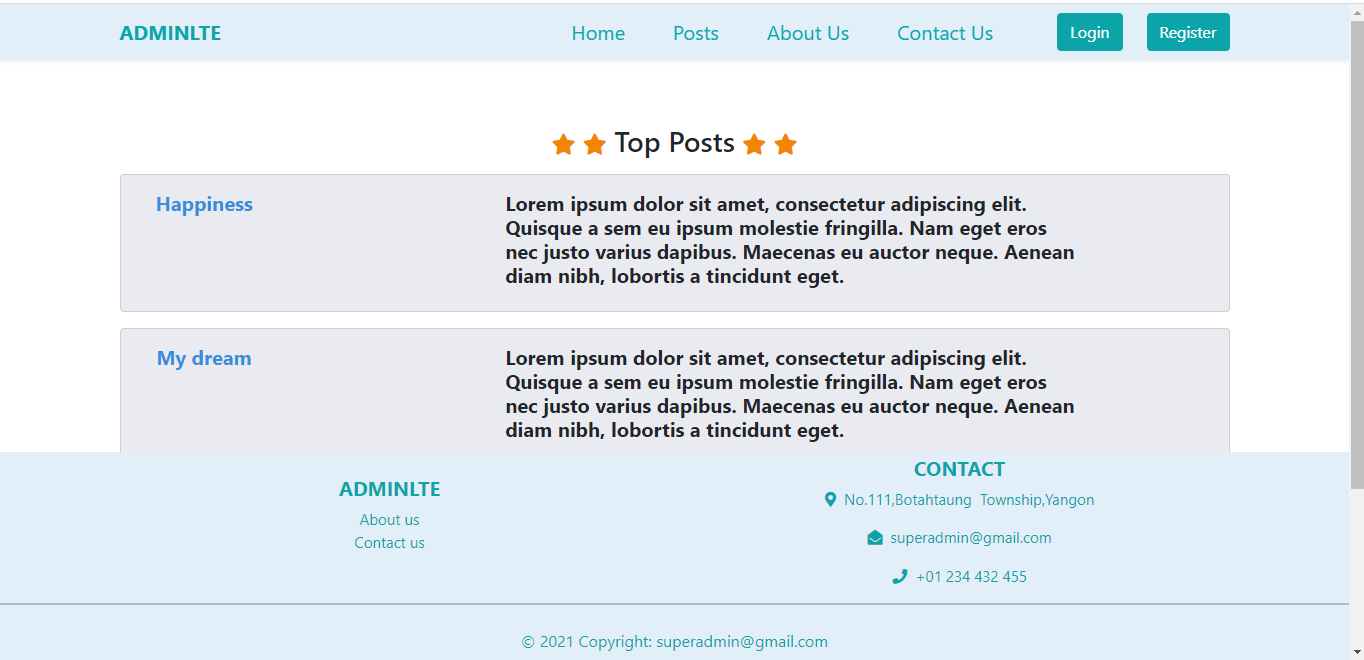
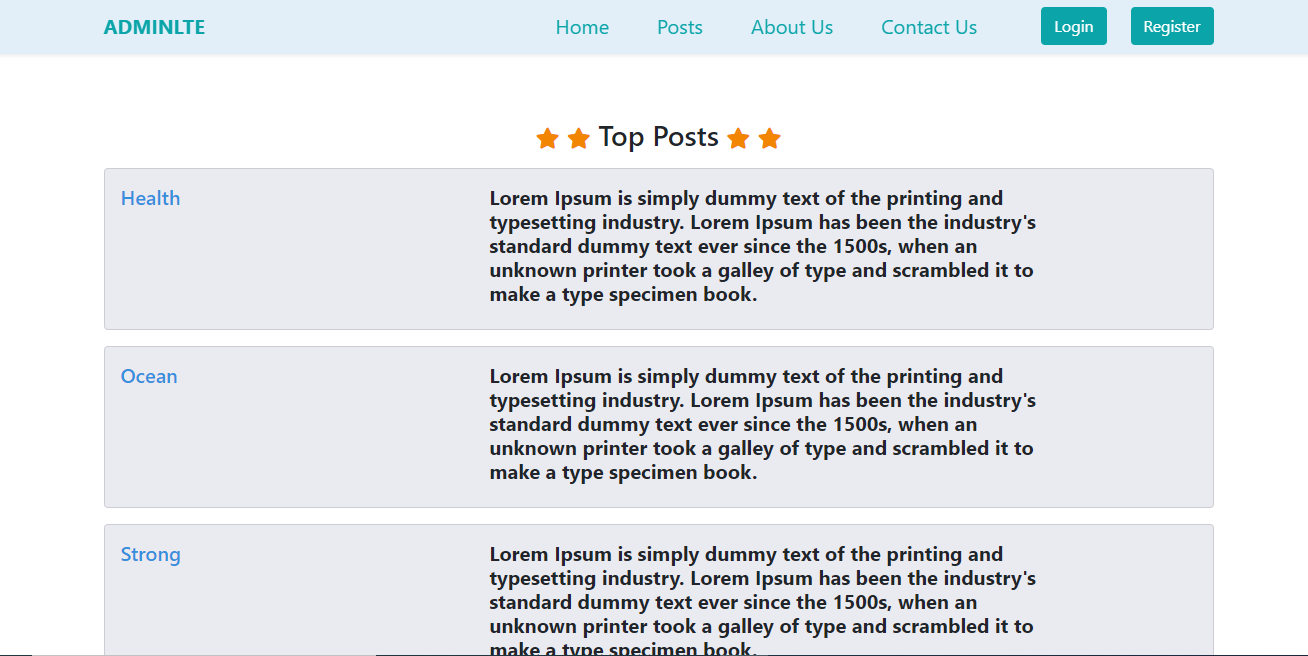
update md

diff --git a/resources/views/admin/admin-dashboard.blade.php b/resources/views/admin/admin-dashboard.blade.php
@@ -1,6 +1,6 @@
 @extends('admin.admin-layout.master')
 @section('admin-content')
-    <div class="container mt-5 mb-5">
+    <div class="container mb-5">
         <div class="row justify-content-center">
             <div class="col-md-12">
                 <div class="card">

diff --git a/README.md b/README.md
@@ -53,7 +53,7 @@ Password : 12345678
 ```
 
 ## Sample Post data
-- [csv file for posts data ](https://github.com/scm-developers/resources/raw/main/docs/How%20to%20environment%20setup%20for%20unit%20testing%20in%20Laravel.docx)
+- [csv file for posts data ](https://github.com/KyiMyatNoeSoe7/AdminLTE/blob/c60028244e391a2523523da7bce9164f768d89ba/docs/export-posts.csv)
 
 
 
